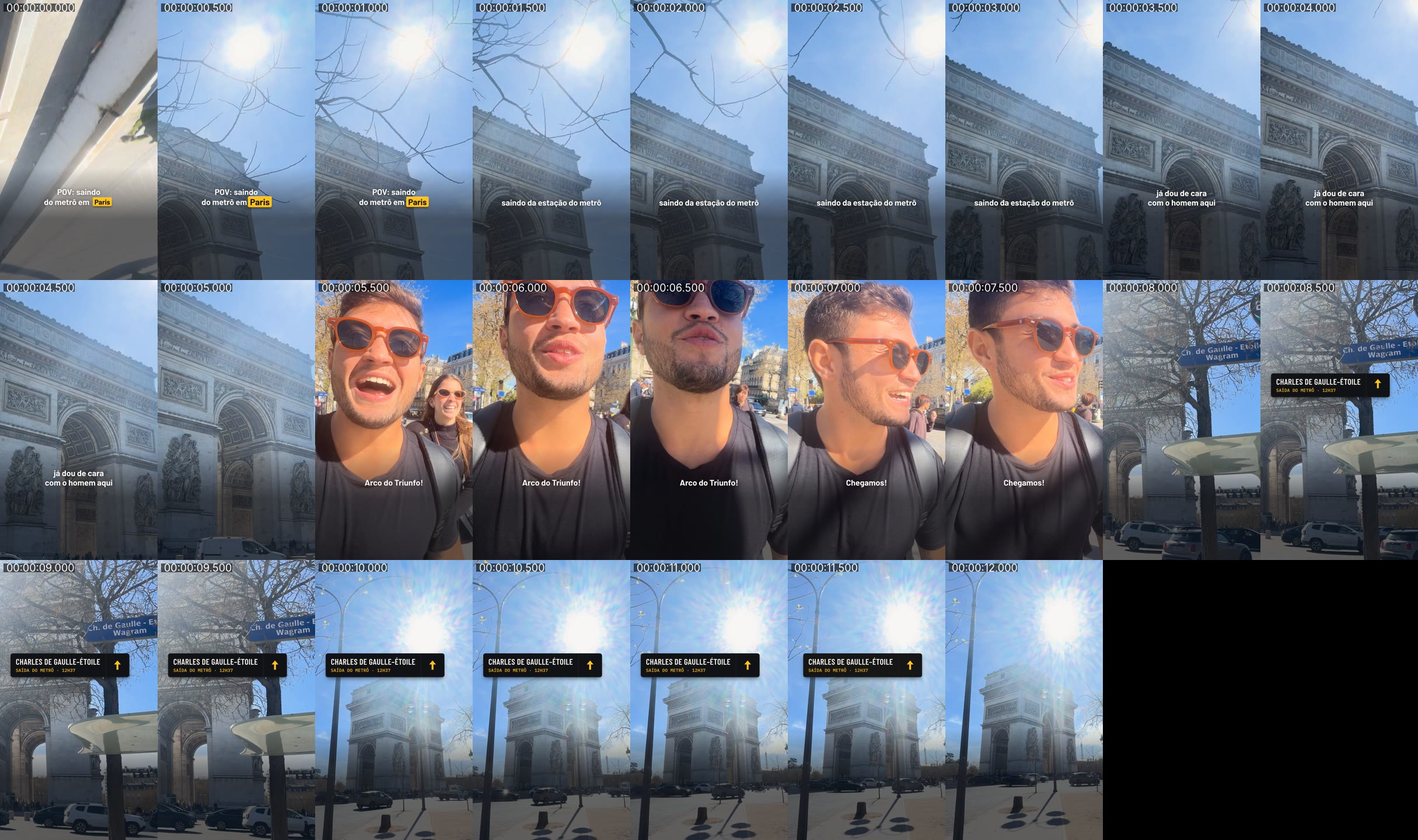
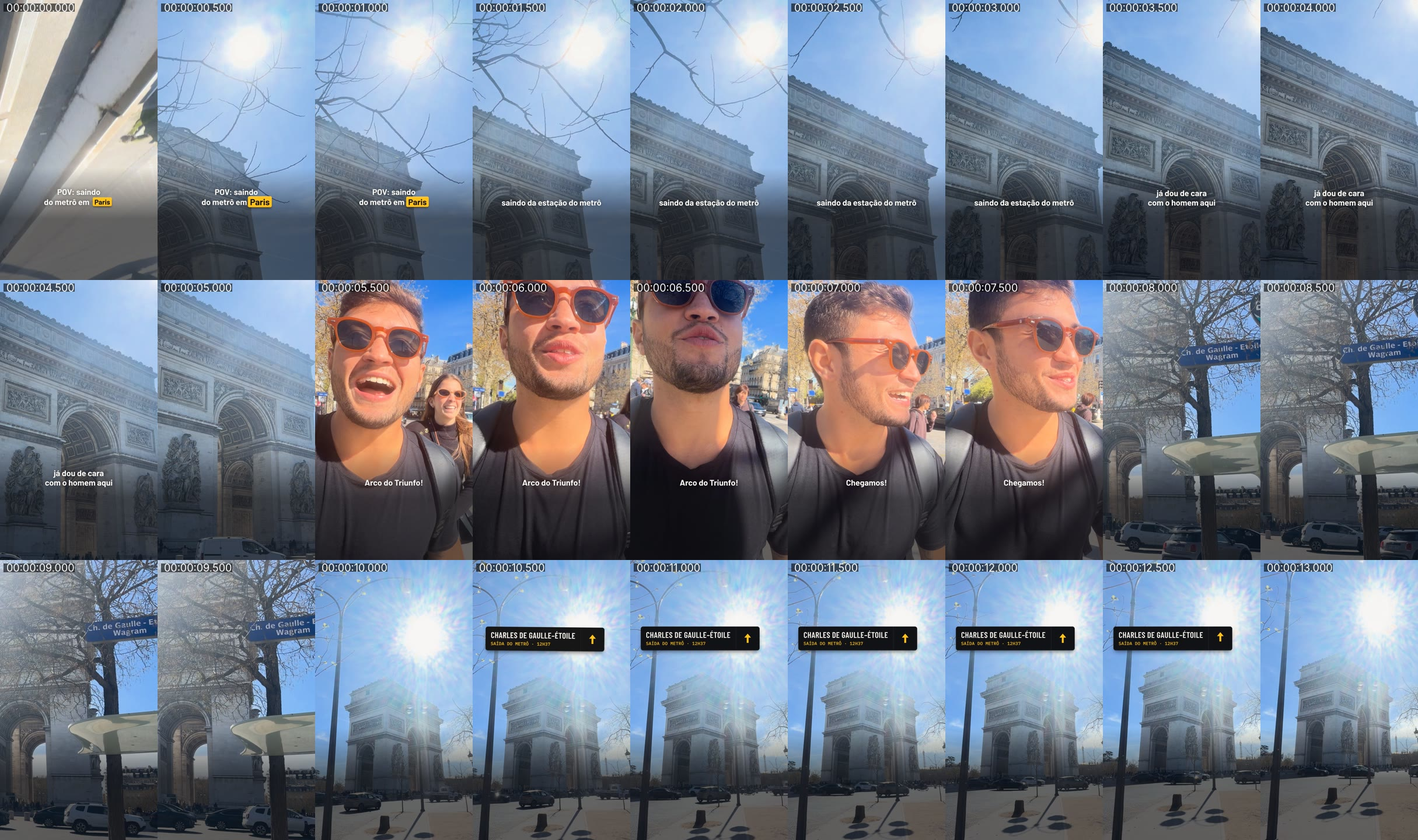
Paris REV1: Placa de direção sai da frente do Arco
A placa passa a entrar só no último plano (o Arco inteiro com o sol), em
y 456, no céu entre o sol e o Arco, e sai antes de o topo do Arco subir
até ela. Exceção de posição deste Reel, a pedido do Diego. O último plano
ficou 1 s mais longo (13,46 s no total); cortes seguem na batida.

Claude-Session: https://claude.ai/code/session_01M7iPUP9LKEZmjHC2Z5nGTf

Changed region(s): [[0.0, 0.6562, 1.0, 1.0], [0.8951, 0.4375, 0.9877, 0.5]]

diff --git a/design-system/remotion/src/reel/Reel.tsx b/design-system/remotion/src/reel/Reel.tsx
@@ -87,6 +87,8 @@ export type PropsReel = {
     destino: string;
     linha: string;
     seta?: "diagonal" | "cima";
+    /** Topo da placa (px). Padrão: y 640 do DS; outro valor só como exceção registrada na QA do Reel. */
+    y?: number;
   };
   informacao?: {
     cena: string;
@@ -308,6 +310,7 @@ export const Reel: React.FC<PropsReel> = (p) => {
           destino={p.placa_direcao.destino}
           linha={p.placa_direcao.linha}
           seta={p.placa_direcao.seta}
+          y={p.placa_direcao.y}
           entrada={ms(p.placa_direcao.cena, p.placa_direcao.t)}
           saida={
             p.placa_direcao.saida

diff --git a/reels/paris-arco/rev1/QA_REV1.md b/reels/paris-arco/rev1/QA_REV1.md
@@ -4,12 +4,12 @@
 
 | Item | Valor |
 |---|---|
-| Arquivo final | `reel_paris-arco_rev1.mp4` · 1080 × 1920 · 24 fps · 12,375 s (297 quadros) · H.264 + AAC 320 kbps |
+| Arquivo final | `reel_paris-arco_rev1.mp4` · 1080 × 1920 · 24 fps · 13,46 s (323 quadros) · H.264 + AAC 320 kbps |
 | Prévia leve | `reel_paris-arco_rev1_previa.mp4` (540 × 960) |
 | Capa | `capa_paris-arco_rev1.jpg` (1080 × 1920; o recorte 3:4 do grid fica entre y 240 e 1680, com o sol, a placa e o Arco inteiro dentro) |
 | Áudio | −14,0 LUFS integrados · pico verdadeiro −1,4 dBTP (DS V2, 4.6) · **sem trilha**: a música entra no Instagram (ver `musica.md`) |
 | Nível de edição | B (DS V2, 5.2): 1 objeto de marca (Placa de direção, 2.6) na posição da placa, legenda Padrão com scrim e 1 Destaque |
-| Grade musical | Todos os cortes no tempo de "Les Champs-Élysées" (112 BPM), desvio de −2 a −36 ms (`rev1.json`, `grade_musical`) |
+| Grade musical | Todos os cortes no tempo de "Les Champs-Élysées" (112 BPM), desvio de −36 a +4 ms (`rev1.json`, `grade_musical`) |
 | Decisões | `rev1.json` · pipeline `rev1.py` · composição `Reel` em `design-system/remotion` |
 | Folha de quadros | `qa_frames/folha_rev1.jpg` (1 quadro a cada 0,5 s) |
 
@@ -21,9 +21,9 @@
 | 0,58–5,42 | **revelação**: o mesmo sol e os galhos; a câmera desce e o Arco toma a tela | `IMG_2815.MOV` 0,00–4,83 s, recorte x 2050 → 1350 (acompanha da direita para a fachada) | "saindo da estação do metrô" (1,50–3,37) · "já dou de cara / com o homem aqui" (3,47–5,12) | ambiente (−24 LUFS) + **voz em J-cut** do `IMG_2811` (0,80–2,75 s entra aos 1,42 s; 3,40–5,15 s entra aos 3,37 s) |
 | 5,42–7,00 | **reação 1**: Diego rindo, Marina sorrindo atrás | `IMG_2811.MOV` 7,95–9,53 s, recorte x 1000 | "Arco do Triunfo!" (5,64–6,97) | voz, em sincronia (mesmo arquivo, mesmo trecho) |
 | 7,00–8,08 | **reação 2**: Diego olhando para o Arco (corte seco no mesmo plano) | `IMG_2811.MOV` 10,55–11,63 s, recorte x 800 | "Chegamos!" (7,09–8,00) | voz, em sincronia |
-| 8,08–10,21 | **estação**: placa real do ponto "Ch. de Gaulle - Étoile / Wagram" e o Arco atrás | `IMG_2813.MOV` 0,10–2,23 s, recorte x 2300, Ken Burns 100 → 104% | **Placa de direção** `CHARLES DE GAULLE–ÉTOILE` / `SAÍDA DO METRÔ · 12H37` + seta ↑ (Chegada curta aos 8,45 s, assenta aos 8,61 s) | ambiente (−23 LUFS) · *clack* aos 8,61 s, −10 dB do ambiente |
-| 10,21–12,38 | **cartão-postal**: o Arco inteiro com o sol | `IMG_2859.MOV` 0,30–2,47 s, recorte x 1318 → 1186 (acompanha o pan) | a placa continua e sai pela direita (11,59–11,83 s) | ambiente (−23 LUFS) |
-| 12,38 → 0,00 | loop: Arco ao sol → degraus do metrô | — | — | — |
+| 8,08–10,21 | **estação**: placa real do ponto "Ch. de Gaulle - Étoile / Wagram" e o Arco atrás | `IMG_2813.MOV` 0,10–2,23 s, recorte x 2300, Ken Burns 100 → 104% | — (a placa real fala sozinha) | ambiente (−23 LUFS) |
+| 10,21–13,46 | **cartão-postal**: o Arco inteiro com o sol | `IMG_2859.MOV` 0,00–3,25 s, recorte x 1336 → 1138 (acompanha o pan) | **Placa de direção** `CHARLES DE GAULLE–ÉTOILE` / `SAÍDA DO METRÔ · 12H37` + seta ↑ em **x 72 · y 456**, no céu entre o sol e o Arco (Chegada curta aos 10,58 s, assenta aos 10,74 s, sai até 12,92 s) | ambiente (−23 LUFS) · *clack* aos 10,74 s, −10 dB do ambiente |
+| 13,46 → 0,00 | loop: Arco ao sol → degraus do metrô | — | — | — |
 
 Cortes secos em 100% das trocas (nenhuma transição). A revelação é um *match cut*: a escada termina no sol e no céu com galhos, e o `IMG_2815` começa no mesmo sol e nos mesmos galhos.
 
@@ -49,7 +49,7 @@ A transcrição continua automática: a validação auditiva é humana (CLAUDE.m
 1. **3,5 s:** é "já **dou** de cara com o **homem** aqui"? (Se for "demos de cara com ele", trocar o texto em `rev1.json`, `legendas`.)
 2. **3,37 s:** a emenda das duas frases (saiu uma pausa de 0,65 s entre "metrô" e "já") soa natural, sem clique nem salto de ruído?
 3. **5,42 s e 7,00 s:** os cortes de áudio na reação ("Arco do Triunfo!" → "Chegamos!") soam limpos?
-4. **8,61 s:** o *clack* da placa aparece sem incomodar? (É o som v1 sintetizado; ver `design-system/sons/README.md`.)
+4. **10,74 s:** o *clack* da placa aparece sem incomodar? (É o som v1 sintetizado; ver `design-system/sons/README.md`.)
 5. **Com a música** (depois de pôr no Instagram): a voz fica claramente acima da música em 1,4–8,0 s?
 
 Se 1 estiver errado: corrigir o texto em `rev1.json` e rodar `python3 rev1.py render && python3 rev1.py master && python3 rev1.py previa`.
@@ -59,7 +59,7 @@ Se 1 estiver errado: corrigir o texto em `rev1.json` e rodar `python3 rev1.py re
 | Item | Situação |
 |---|---|
 | Só tokens oficiais | ✅ Valores lidos de `primeiro-dia-tokens-v2.json` pelo Remotion. A Placa de direção usa só tokens existentes (ver "Decisões") |
-| 1 objeto de marca na posição fixa | ✅ Placa de direção em x 72 · y 640 (zona da placa), no pico de utilidade (o nome da estação), com Chegada curta e saída pela direita |
+| 1 objeto de marca na posição fixa | ⚠ Placa de direção em x 72 · **y 456** (exceção, ver "Decisões"), no pico de utilidade (o nome da estação), com Chegada curta e saída pela direita |
 | Carimbo, ticket e bilhetes | ✅ Nenhum |
 | Legendas | ✅ Scrim sempre ligado · ≤ 2 linhas · ≤ 26 caracteres por linha ("saindo da estação do metrô" tem 26) · ≤ 6 palavras por grupo · 1 Destaque no Reel ("Paris") · grupo inteiro em 120 ms · centradas em x 540 · base em y 1420 |
 | Freio 5 (câmera andando, legenda calma) | ✅ "Chegamos!" fica sem Destaque (eles estão andando). O Destaque de "Paris" pula aos 0,62 s, já na revelação, com a câmera parada inclinando |
@@ -86,7 +86,7 @@ Se 1 estiver errado: corrigir o texto em `rev1.json` e rodar `python3 rev1.py re
 | 7 | Conformidade DS V2 | ✅ Tabela acima |
 | 8 | Identidade verbal | ✅ Direto e curioso; hora exata (12h37) sem arredondar |
 | 9 | Originalidade | ✅ Material próprio, sem marca d'água, sem música embutida |
-| 10 | Formato e duração | ✅ 12,4 s (planejado: 10–14 s), com loop no Arco |
+| 10 | Formato e duração | ✅ 13,5 s (planejado: 10–14 s), com loop no Arco |
 
 ## Decisões desta revisão (valem só para este Reel)
 
@@ -94,15 +94,16 @@ Se 1 estiver errado: corrigir o texto em `rev1.json` e rodar `python3 rev1.py re
 - **HLG → SDR com branco de referência de 203 nits** (ITU-R BT.2408), não 100 como em Madrid. Com 100, o céu e a pedra do Arco ficam lavados nessas cenas de sol a pino (comparativo entre Möbius 100 e 203, Hable e Reinhard, num quadro do Arco e num do rosto). Sem filtro nem correção de cor depois disso (DS 0.3, "Real antes de bonito").
 - **Clipes deitados:** `IMG_2811` foi filmado na horizontal de cabeça para baixo, mas o arquivo diz "retrato" (−90°). O `rev1.py` gira 180°, como no `IMG_3963` de Madrid.
 - **Placa de direção (DS 2.6), primeira implementação em código.** O DS descreve só "placa pequena grafite com destino H3 + Plex Mono amarelo + seta ↗" e "Chegada (versão curta 320 ms)". A anatomia foi tirada da Placa (2.1) e do material Painel (1.4), sem valor novo (detalhes em `design-system/remotion/README.md`, "Decisões de implementação"). Tamanho 100%: a 75% o destino em H3 cairia para 42 px, abaixo do mínimo de 52 px sobre vídeo (1.2). **Precisa da aprovação do Diego** como padrão da placa de direção.
+- **Placa de direção em y 456, só no último plano (pedido do Diego, 17/10/2026).** Na posição do DS (y 640) ela ficava na frente do Arco: no plano da estação o Arco ocupa a altura toda, e no cartão-postal a câmera inclina para cima e o topo do Arco sobe de y ≈ 870 para ≈ 590. Em y 456 (base em y 619) ela fica no céu, entre o sol e o Arco, e sai (12,92 s) antes de o topo do Arco chegar à base dela. Exceção deste Reel, como a da placa em y 1104 na REV7 do Reel de apresentação; a regra do DS não muda. O cartão-postal ficou 1 s mais longo (3,25 s) para a placa ter tempo de leitura.
 - **Seta ↑ (90°)** em vez de ↗: é a saída do metrô (subir a escada) e o Arco está ali. O DS permite as duas (1.6).
 - **Estação: Charles de Gaulle–Étoile.** GPS do `IMG_2811` (48.8747, 2.2954), a cerca de 100 m do centro do Arco, lado da Av. de Wagram; o `IMG_2813` (33 s depois) mostra a placa real do ponto "Ch. de Gaulle - Étoile / Wagram". Segundo a lista de acessos do RATP (vista pelos resultados de busca em 16/10/2026; a página do RATP recusou a conexão), o acesso 4 fica na Av. de Wagram e o acesso 3 na esquina da Av. Hoche com a Wagram: **o número do acesso não foi confirmado** e não entra na tela. A linha de metrô que eles pegaram também não (a mais provável, vindo do Trocadéro, é a 6).
-- **Hora na placa: 12H37** = criação do `IMG_2811` (12:37:03, +01:00), que começa na escada. A placa fica na tela também sobre o `IMG_2859` (12:49): a hora é a da saída do metrô, não a do plano.
+- **Hora na placa: 12H37** = criação do `IMG_2811` (12:37:03, +01:00), que começa na escada. A placa aparece sobre o `IMG_2859` (12:49): a hora é a da saída do metrô, não a do plano.
 - **Gancho: "POV: saindo / do metrô em Paris"** (5 palavras). O planejamento tinha "POV: você sai do metrô em Paris e…" (8 palavras). O DS aceita até 7 palavras no hook (5.1) e até 6 por grupo de legenda (3.2); a versão curta cumpre os dois.
 - **Fala em J-cut, atrasada 0,62 s** para o gancho escrito ficar 1,4 s sozinho, e **sem a pausa de 0,65 s** entre "metrô" e "já". O rosto do Diego só aparece nas reações, em sincronia; o `rev1.py` falha se uma fala deslocada cair sobre a imagem do mesmo arquivo.
 - **Ganho único na voz do `IMG_2811`** (−1,8 dB, medido na soma dos 4 trechos): a voz do Diego tem o mesmo nível em todos os cortes.
 - **Ambiente do fim a −23 LUFS** (estação e cartão-postal): deixa espaço para a música do Instagram, que é o que vai carregar esses 4,3 s sem fala.
 - **Capa do `IMG_2859`** (o Arco inteiro com o sol), e não da revelação: no recorte 3:4 do grid o Arco inteiro é reconhecível na hora e a placa não cobre o monumento. À direita aparece a pontinha da Torre Eiffel. Placa M (75%) "PARIS / SAIU DO METRÔ", como pede o planejamento.
-- **Cortes no tempo da música** (`grade_musical` em `rev1.json`): com a música começando no "Aux" do refrão no quadro 0, os 6 cortes caem nos tempos 1, 10, 13, 15, 19 e 23, a placa assenta no tempo 16 e some no 22.
+- **Cortes no tempo da música** (`grade_musical` em `rev1.json`): com a música começando no "Aux" do refrão no quadro 0, os 6 cortes caem nos tempos 1, 10, 13, 15, 19 e 25, a placa assenta no tempo 20 e some no 24.
 - **Sem trilha embutida:** a música só entra pela biblioteca do Instagram na hora de postar (DS 4.6), para não ter áudio protegido no arquivo.
 
 ## Riscos

diff --git a/reels/paris-arco/rev1/musica.md b/reels/paris-arco/rev1/musica.md
@@ -5,7 +5,7 @@
 Por que esta:
 - **A letra nomeia o lugar.** O Arco do Triunfo fica no alto da Champs-Élysées. O refrão "Aux Champs-Élysées" toca enquanto o Arco está na tela, e "il y a tout ce que vous voulez" ("tem tudo o que você quiser") é a vontade de ir.
 - **O tom é o do "Chegamos!":** alegre, leve e reconhecível em 1 segundo por qualquer brasileiro.
-- **O fim pede trilha.** Os últimos 4,3 s (a estação e o Arco ao sol) não têm fala; sem música, ficam só com o trânsito.
+- **O fim pede trilha.** Os últimos 5,4 s (a estação e o Arco ao sol) não têm fala; sem música, ficam só com o trânsito.
 - **Sincronia pronta:** os 6 cortes e a placa foram postos nos tempos dela (112 BPM).
 
 O arquivo `reel_paris-arco_rev1.mp4` **não tem música**. É de propósito: áudio protegido embutido pode ser silenciado, e a biblioteca do Instagram já é licenciada (DS 4.6: "Trilha: biblioteca do Instagram na hora de postar").
@@ -39,12 +39,12 @@ Adicionar áudio → a música → arraste o início do trecho até o "Aux" do r
 | 5,42 s | tempo 10 | corte para o Diego: "Arco do Triunfo!" |
 | 7,00 s | tempo 13 | "Chegamos!" |
 | 8,08 s | tempo 15 | corte para a placa real do ponto e o Arco |
-| ★ 8,61 s | tempo 16 | a Placa de direção assenta (*clack*) |
 | ★ 10,21 s | tempo 19 | corte para o Arco inteiro com o sol |
-| 11,83 s | tempo 22 | a placa termina de sair pela direita |
-| 12,38 s | tempo 23 | volta ao início (loop) |
+| ★ 10,74 s | tempo 20 | a Placa de direção assenta (*clack*) |
+| 12,92 s | tempo 24 | a placa termina de sair pela direita |
+| 13,46 s | tempo 25 | volta ao início (loop) |
 
-**Medição:** prévia pública de 30 s (iTunes), analisada com librosa 0.11: **112,3 BPM** (535,7 ms por tempo). É uma gravação de 1969 com bateria tocada: o intervalo entre batidas varia cerca de ±20 ms. Desvio dos cortes em relação às batidas medidas: **−2 a −36 ms** (a imagem chega um pouco antes do som). É o lado mais tolerado pelo olho (ITU-R BT.1359: o som atrasado em relação à imagem demora mais a ser percebido do que o adiantado). Os números estão em `rev1.json`, `grade_musical`. A prévia não fica no repositório.
+**Medição:** prévia pública de 30 s (iTunes), analisada com librosa 0.11: **112,3 BPM** (535,7 ms por tempo). É uma gravação de 1969 com bateria tocada: o intervalo entre batidas varia cerca de ±20 ms. Desvio dos cortes em relação às batidas medidas: **−36 a +4 ms** (a imagem chega um pouco antes do som). É o lado mais tolerado pelo olho (ITU-R BT.1359: o som atrasado em relação à imagem demora mais a ser percebido do que o adiantado). Os números estão em `rev1.json`, `grade_musical`. A prévia não fica no repositório.
 
 **Se o Instagram não tiver a música** (a biblioteca muda por país e por conta; não dá para conferir daqui) ou se preferir outra: me diga qual e eu refaço a grade dos cortes no andamento dela (é trocar o `bpm` e os quadros em `rev1.json` e renderizar de novo). As alternativas abaixo **não** batem com a grade atual.
 
